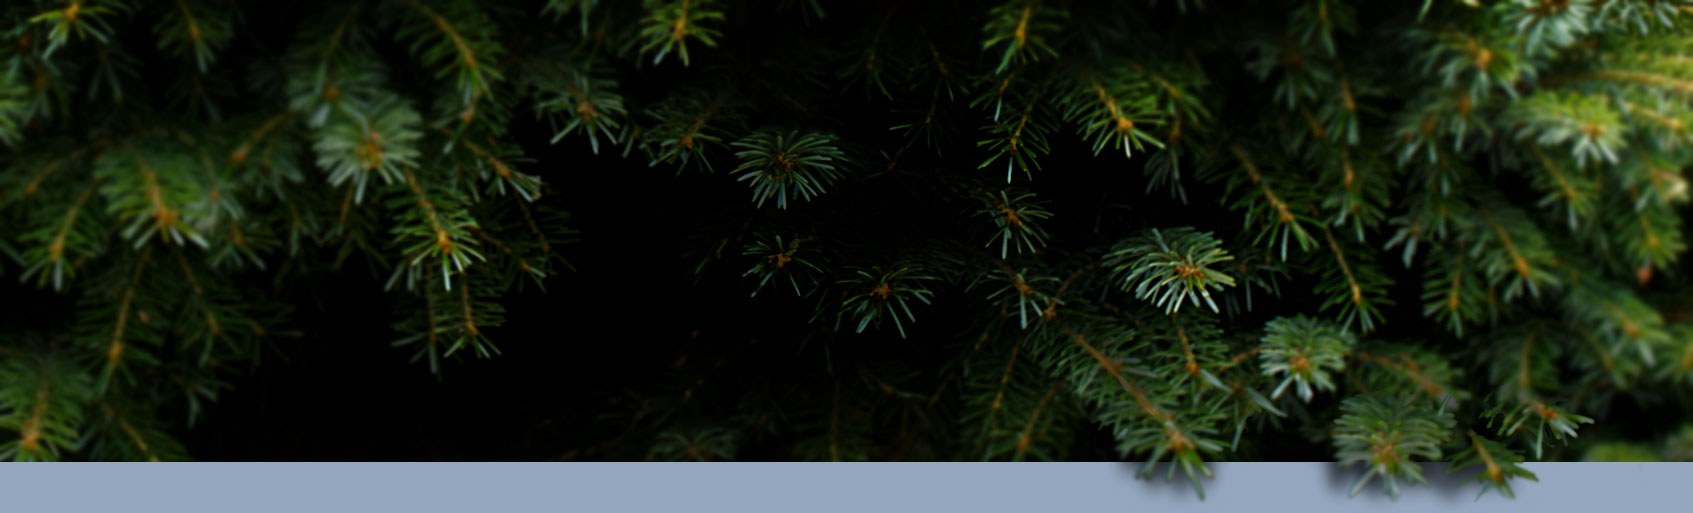
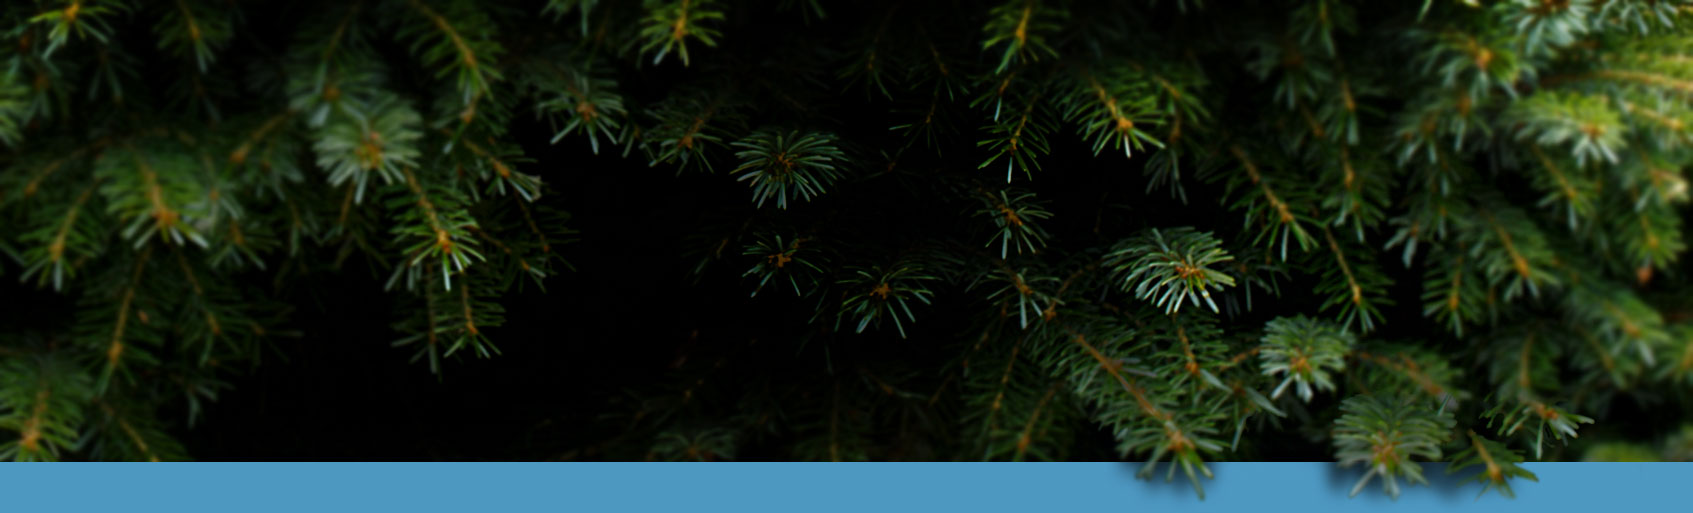
color shift

Changed region(s): [[0.0, 0.8733, 1.0, 1.0]]

diff --git a/h102822/index.html b/h102822/index.html
@@ -153,7 +153,7 @@ h1.forest {
 }
 .row.cdcl {
 	font-family: "Open Sans", Calibri, Candara, Arial, sans-serif;
-	background: #93beb6 url("new-background.jpg") repeat-x;
+	background: #93beb6 url("new-background2.jpg") repeat-x;
 	padding: 30px 15px 0;
 }
 .cdcl-wrapper {
